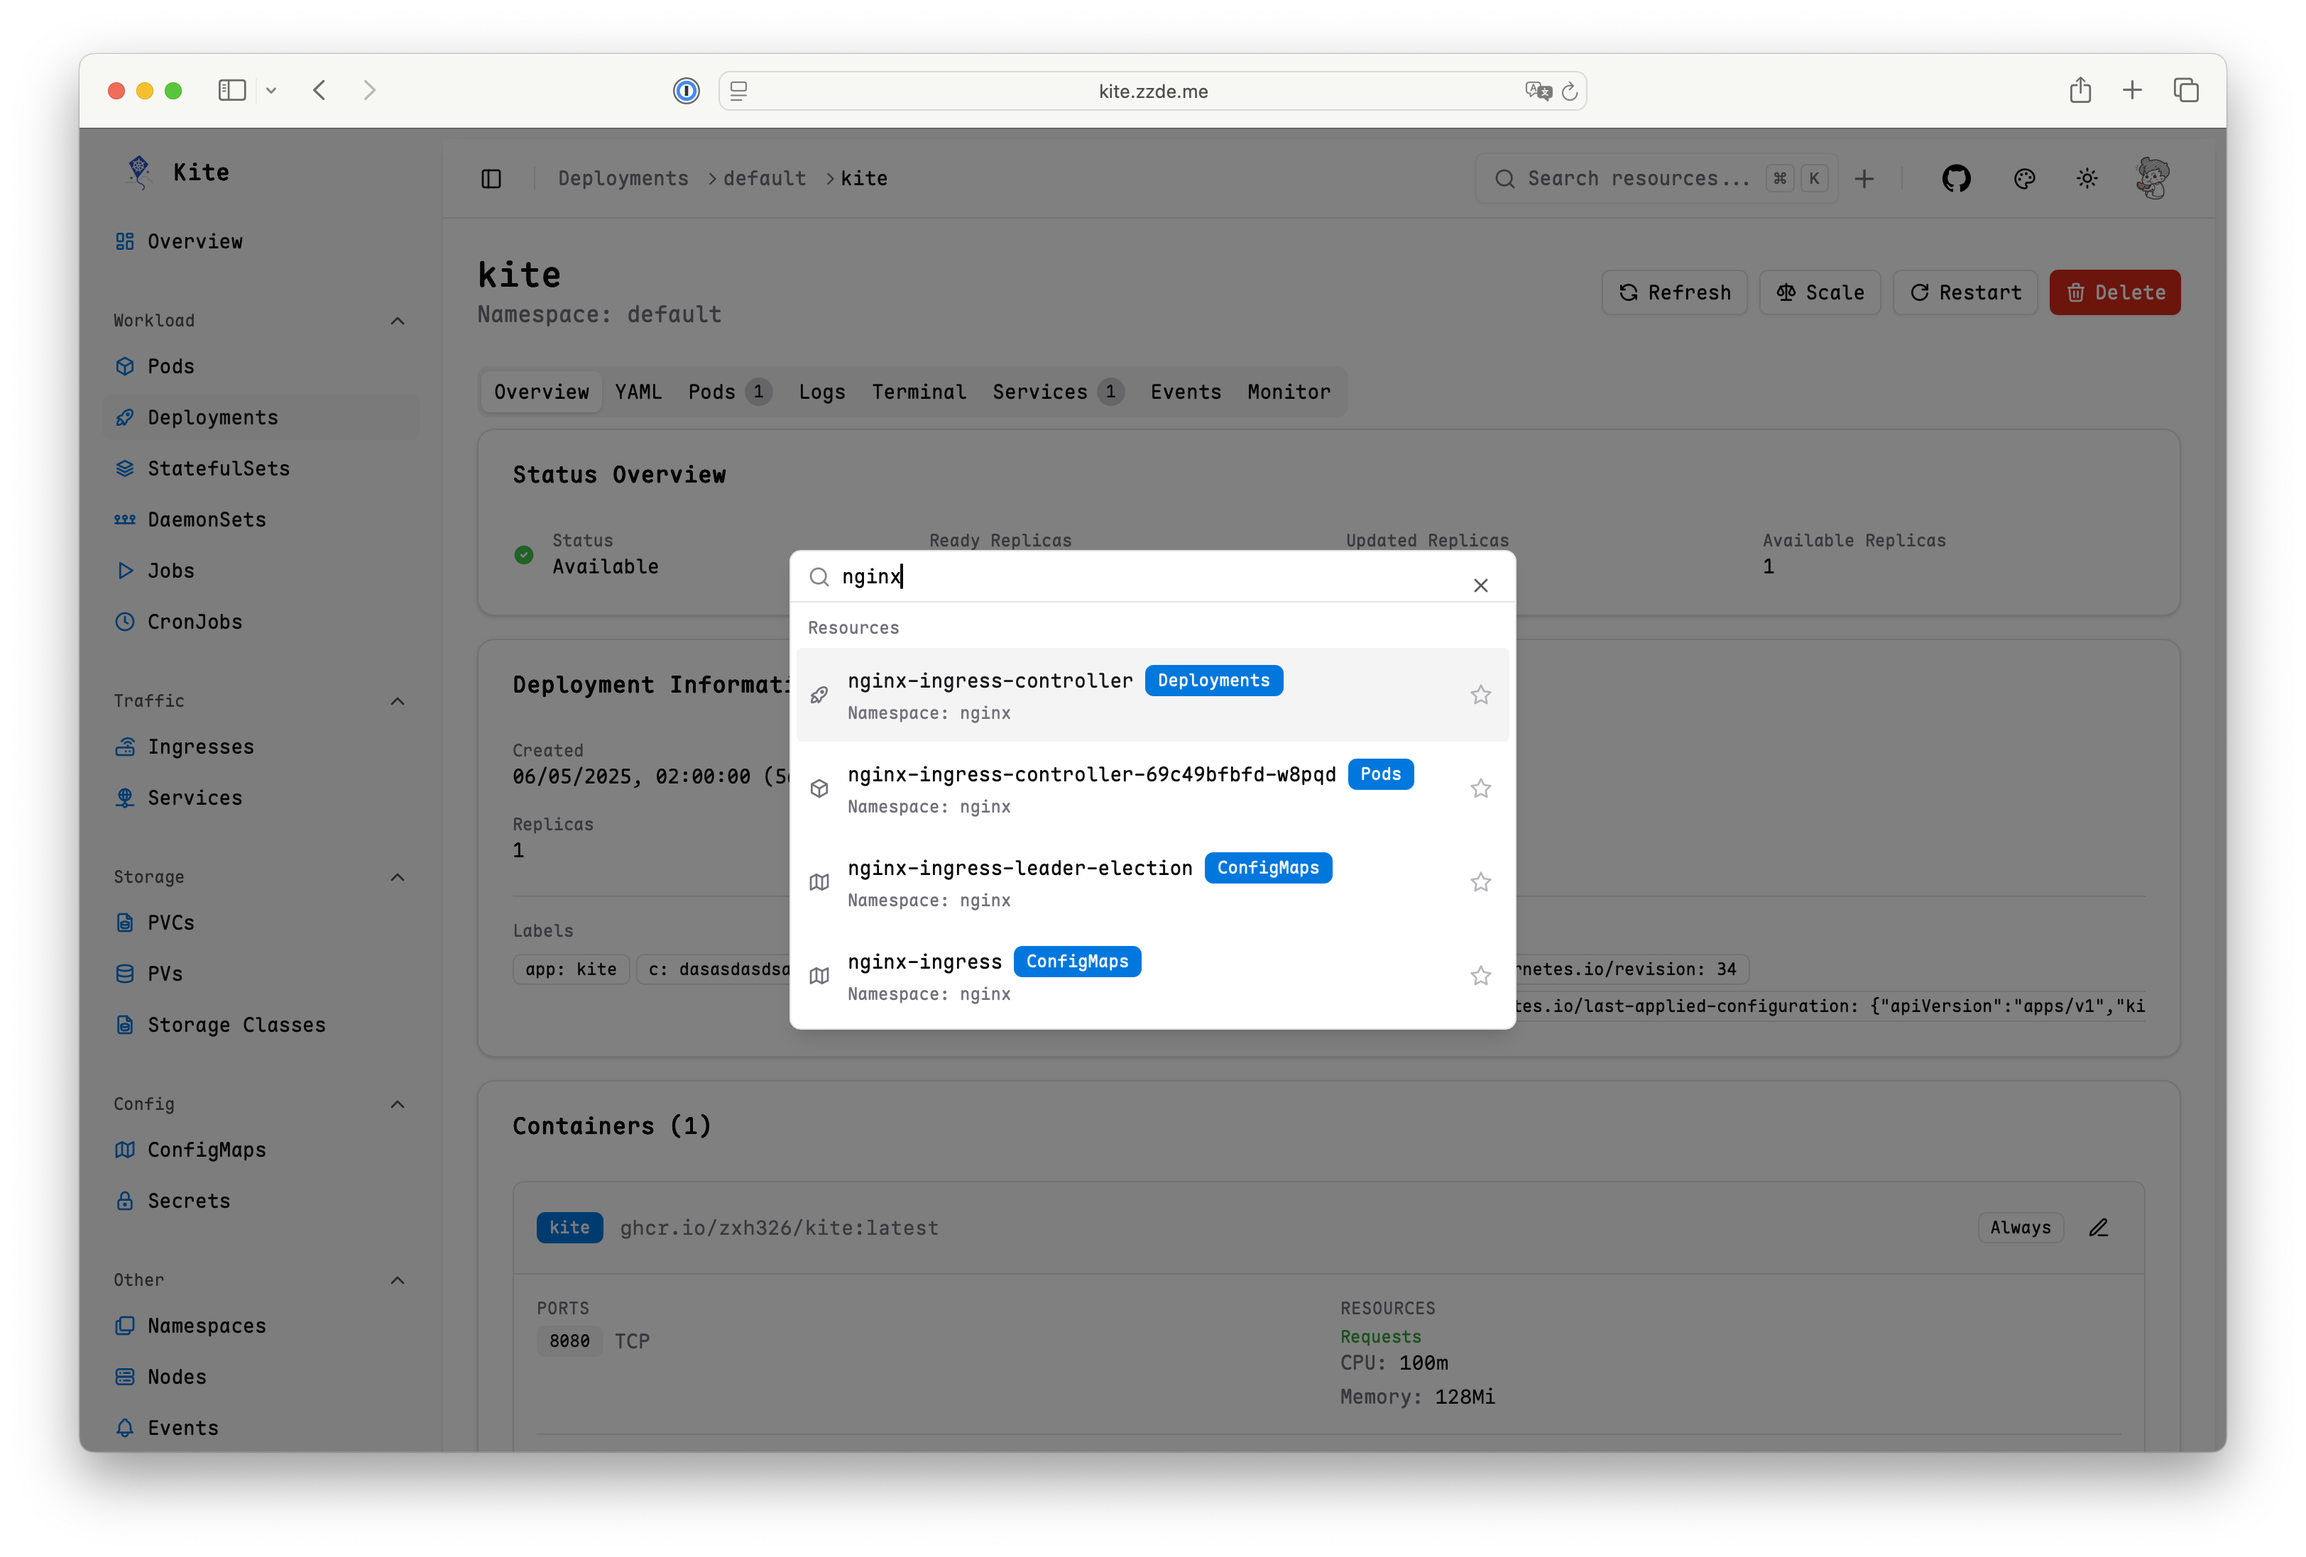
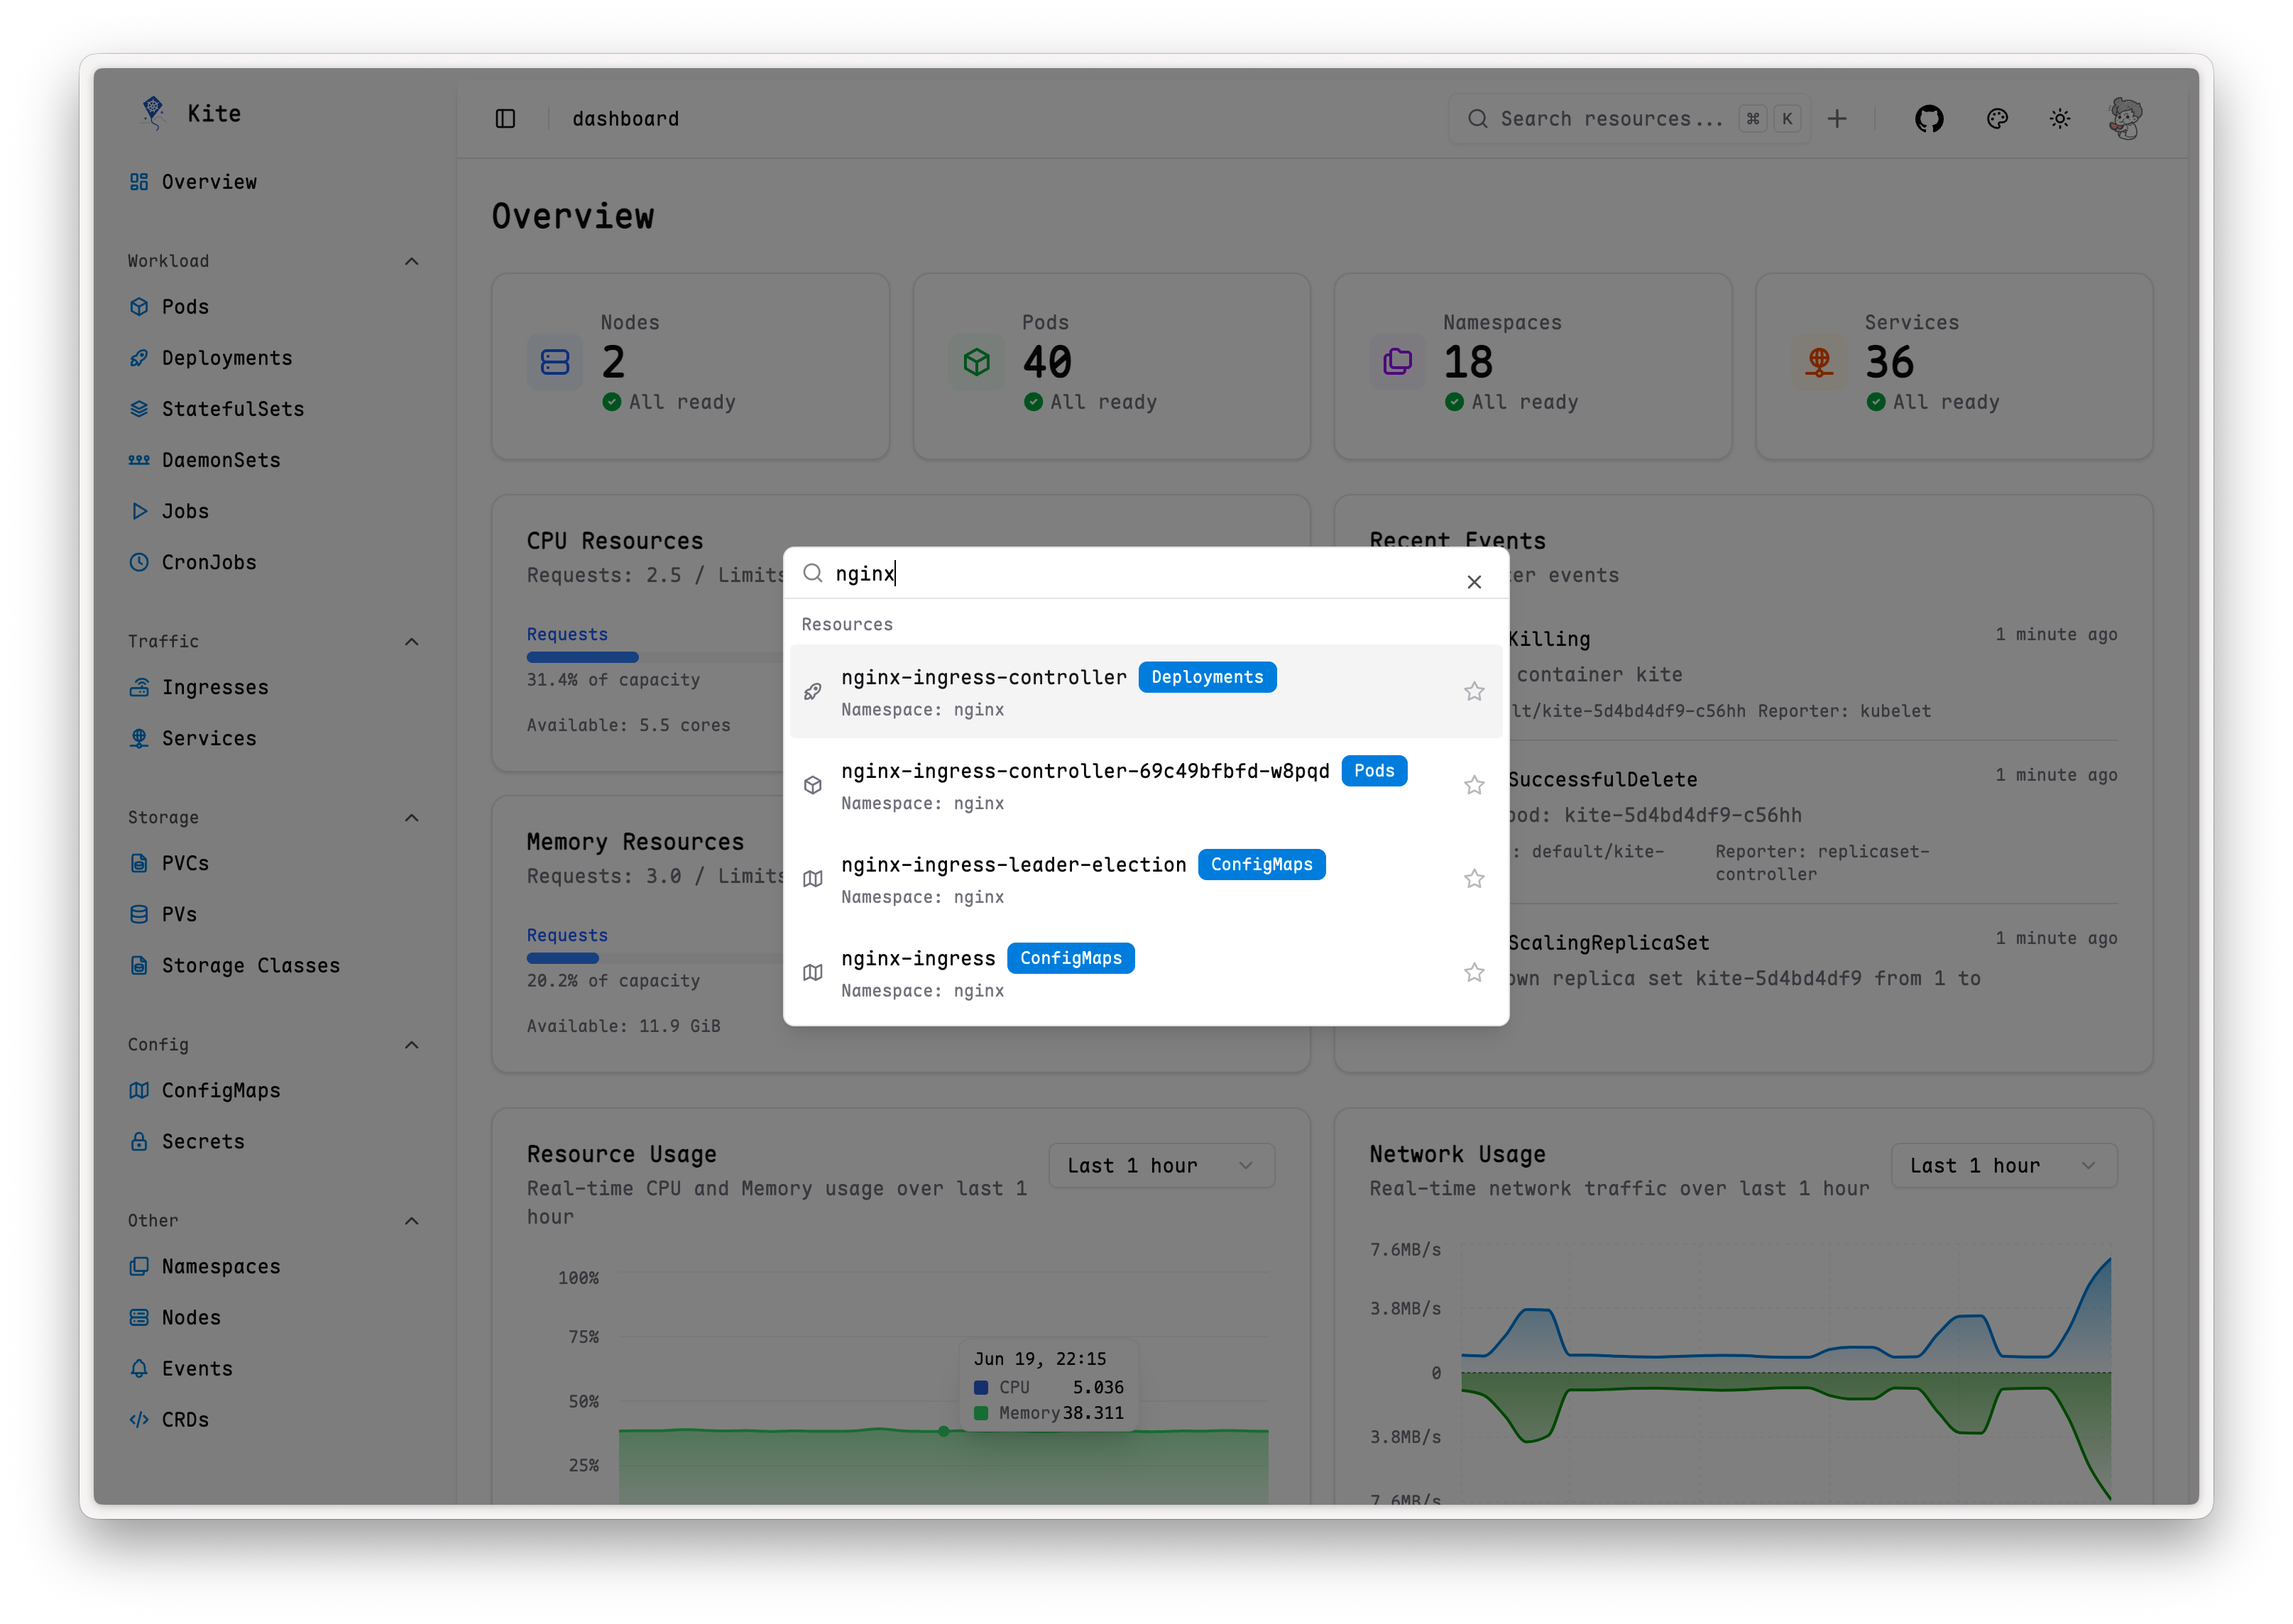
[ci skip]: update README

diff --git a/README.md b/README.md
@@ -24,6 +24,10 @@ Kite is a lightweight, modern Kubernetes dashboard that provides an intuitive in
 ![Dashboard Overview](docs/screenshots/overview.png)
 _Comprehensive cluster overview with real-time metrics and resource statistics_
 
+<details>
+
+<summary>More screenshots</summary>
+
 ### 🚀 Resource Management
 
 ![Deployment Detail](docs/screenshots/deployment-detail.png)
@@ -53,6 +57,8 @@ _Execute commands directly in pods through the browser interface_
 
 ![OAuth Login](docs/screenshots/oauth.png)
 _Secure authentication with GitHub and custom OAuth providers_
+
+</details>
 
 ---
 
